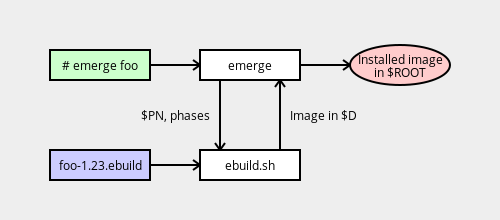
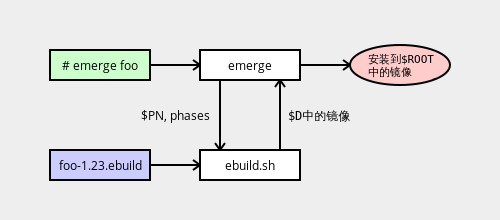
emerge-and-ebuild

Changed region(s): [[0.72, 0.2455, 0.9, 0.3545], [0.57, 0.4909, 0.72, 0.5727]]

diff --git a/devmanual.gentoo.org/general-concepts/emerge-and-ebuild/index.html b/devmanual.gentoo.org/general-concepts/emerge-and-ebuild/index.html
@@ -1,8 +1,8 @@
 <!DOCTYPE html>
-<html lang="en">
+<html lang="zh">
 <head>
 <meta http-equiv="Content-Type" content="text/html; charset=UTF-8">
-<title>Emerge and Ebuild Relationships – Gentoo Development Guide</title>
+<title>Emerge 和 Ebuild 的关系 – Gentoo 开发指南</title>
 <meta name="viewport" content="width=device-width, initial-scale=1.0">
 <meta name="description" content="The Gentoo Devmanual is a technical manual which covers topics such as writing ebuilds and eclasses, and policies that developers should be abiding by.">
 <link href="/assets.gentoo.org/tyrian/bootstrap.min.css" rel="stylesheet" media="screen">
@@ -54,19 +54,20 @@
 <li><a href="../../index.html">Master Index</a></li>
 <li><a href="../index.html">General Concepts</a></li>
 </ol></div></div></div></header><main><div class="container">
-<h1 class="first-header">Emerge and Ebuild Relationships</h1>
+<h1 class="first-header">Emerge 和 Ebuild 的关系</h1>
 
 <div class="figure"><div class="image"><img alt="How emerge, ebuild and foo.ebuild interact" src="diagram.png"></div></div>
 
 <p>
-The <code class="docutils literal"><span class="pre">emerge</span></code> program is a high level wrapper for <code class="docutils literal"><span class="pre">ebuild.sh</span></code> that handles
-dependency tracking, safe installs and uninstalls and so on. <code class="docutils literal"><span class="pre">emerge</span></code> calls
-<code class="docutils literal"><span class="pre">ebuild.sh</span></code> during the build process, which in turn handles the ebuild file
-and any eclasses. The <code class="docutils literal"><span class="pre">${D}</span></code> to <code class="docutils literal"><span class="pre">${ROOT}</span></code> install is handled by <code class="docutils literal"><span class="pre">emerge</span></code>.
+<code class="docutils literal"><span class="pre">emerge</span></code> 程序是用于处理依赖，安全地安装或卸载软件包的
+<code class="docutils literal"><span class="pre">ebuild.sh</span></code> 脚本的高级封装。在软件包构建过程中
+<code class="docutils literal"><span class="pre">emerge</span></code> 调用 <code class="docutils literal"><span class="pre">ebuild.sh</span></code>
+来处理 ebuild 文件和 eclasse。从 <code class="docutils literal"><span class="pre">${D}</span></code> 到
+<code class="docutils literal"><span class="pre">${ROOT}</span></code> 的安装由 <code class="docutils literal"><span class="pre">emerge</span></code> 执行。
 </p>
 
 <div class="alert alert-info" role="alert">
-<strong>Todo:</strong>https://dev.gentoo.org/~g2boojum/portage.html</div>
+<strong>待办：</strong>https://dev.gentoo.org/~g2boojum/portage.html</div>
 
 
 </div></main><footer><div class="container">
